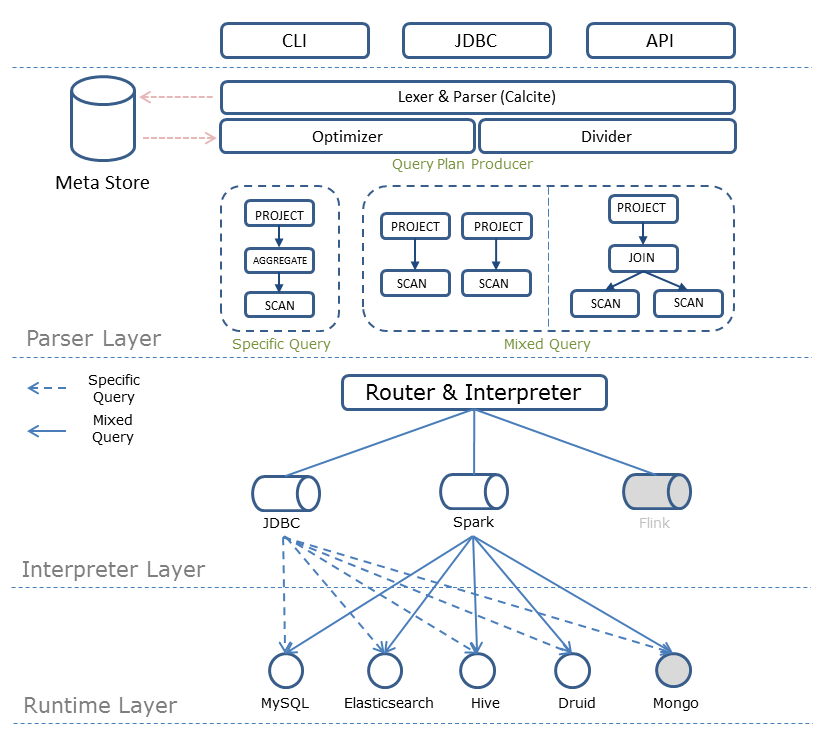
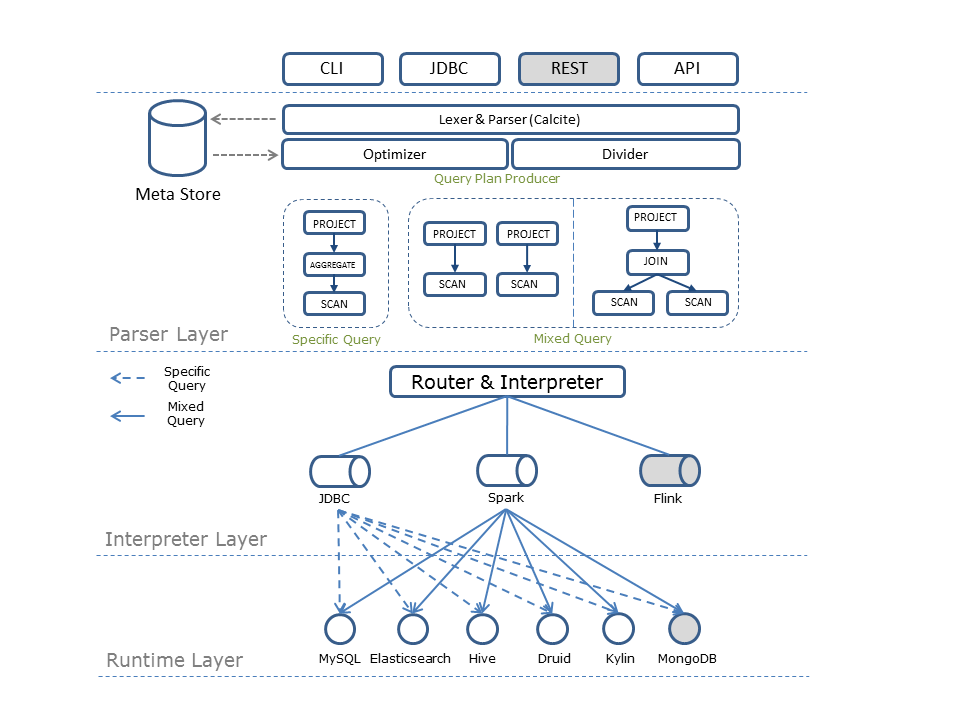
Support JDBC query and modify documents for Kylin. [shaofengshi, liusiyuan1]

diff --git a/core/src/main/java/com/qihoo/qsql/codegen/spark/SparkJdbcGenerator.java b/core/src/main/java/com/qihoo/qsql/codegen/spark/SparkJdbcGenerator.java
@@ -3,6 +3,7 @@ package com.qihoo.qsql.codegen.spark;
 import com.qihoo.qsql.codegen.ClassBodyComposer;
 import com.qihoo.qsql.codegen.QueryGenerator;
 import java.util.Properties;
+import org.apache.commons.lang.StringEscapeUtils;
 
 /**
  * Code generator, used when {@link com.qihoo.qsql.exec.spark.SparkPipeline} is chosen and source
@@ -32,7 +33,7 @@ public class SparkJdbcGenerator extends QueryGenerator {
         String invokeWrap = config.invoke(convertProperties("jdbcUser", "jdbcPassword", "jdbcDriver"));
         String invoked = String.format("tmp = spark.read().jdbc(\"%s\", \"%s\", %s);",
                 properties.getOrDefault("jdbcUrl", ""),
-            "(" + query + ") " + tableName, invokeWrap);
+            "(" + StringEscapeUtils.escapeJava(query) + ") " + tableName, invokeWrap);
         composer.handleComposition(ClassBodyComposer.CodeCategory.SENTENCE, invoked);
     }
 

diff --git a/core/src/main/java/com/qihoo/qsql/plan/proc/PreparedExtractProcedure.java b/core/src/main/java/com/qihoo/qsql/plan/proc/PreparedExtractProcedure.java
@@ -389,7 +389,7 @@ public abstract class PreparedExtractProcedure extends ExtractProcedure {
         @Override
         public String toRecognizedQuery() {
             return sql(new AnsiSqlDialect(SqlDialect.EMPTY_CONTEXT
-                    .withDatabaseProduct(SqlDialect.DatabaseProduct.UNKNOWN).withIdentifierQuoteString("\\\"")));
+                    .withDatabaseProduct(SqlDialect.DatabaseProduct.UNKNOWN).withIdentifierQuoteString("\"")));
         }
 
         @Override

diff --git a/doc/BUILD_doc.md b/doc/BUILD_doc.md
@@ -44,7 +44,7 @@ Before querying the real data source, you need to put metadata information such 
 
 ### Metadata Extraction
 
-QSQL supports extracting metadata from MySQL, Elasticsearch, Hive and Oracle through scripts.
+QSQL supports extracting metadata from MySQL, Elasticsearch, Hive, Oracle and Kylin through scripts.
 
 #### Basic Usage
 
@@ -88,6 +88,14 @@ Accepted Parameters：
 	"jdbcUser": "user",
 	"jdbcPassword": "pass",
 	"dbName": "hive_db"
+}
+//Kylin Example
+{
+	"jdbcDriver": "org.apache.kylin.jdbc.Driver",
+	"jdbcUrl": "jdbc:kylin://localhost:7070/learn_kylin",
+	"jdbcUser": "ADMIN",
+	"jdbcPassword": "KYLIN",
+	"dbName": "default"
 }
 ```
 

diff --git a/doc/BUILD文档.md b/doc/BUILD文档.md
@@ -46,7 +46,7 @@ tar -zxvf ./qsql-release-bin.tar.gz
 
 ### 元数据录入
 
-QSQL支持通过脚本录入MySQL，Elasticsearch，Hive和Oracle的元数据。
+QSQL支持通过脚本录入MySQL, Elasticsearch, Hive, Oracle和Kylin的元数据。
 
 #### 功能介绍
 
@@ -90,6 +90,14 @@ QSQL支持通过脚本录入MySQL，Elasticsearch，Hive和Oracle的元数据。
 	"jdbcUser": "user",
 	"jdbcPassword": "pass",
 	"dbName": "hive_db"
+}
+//Kylin示例
+{
+	"jdbcDriver": "org.apache.kylin.jdbc.Driver",
+	"jdbcUrl": "jdbc:kylin://localhost:7070/learn_kylin",
+	"jdbcUser": "ADMIN",
+	"jdbcPassword": "KYLIN",
+	"dbName": "default"
 }
 ```
 

diff --git a/doc/README_doc.md b/doc/README_doc.md
@@ -80,6 +80,9 @@ INNER JOIN
 	ON emp.name = act.name) AS tmp 
 ON es_profile.prefer = tmp.prefer
 ```
+The following figure shows the optimization process for a mixed query:
+
+![1540973404791](./picture/p2.png)
 
 ***3. Choose the most appropriate way to execute the query***
 

diff --git a/doc/README文档.md b/doc/README文档.md
@@ -77,6 +77,9 @@ INNER JOIN
 	ON emp.name = act.name) AS tmp 
 ON es_profile.prefer = tmp.prefer
 ```
+下图展示了Quicksql对于联邦查询的优化流程：
+
+![1540973404791](./picture/p2.png)
 
 ***3. 选择最合适的方式来执行查询***
 
